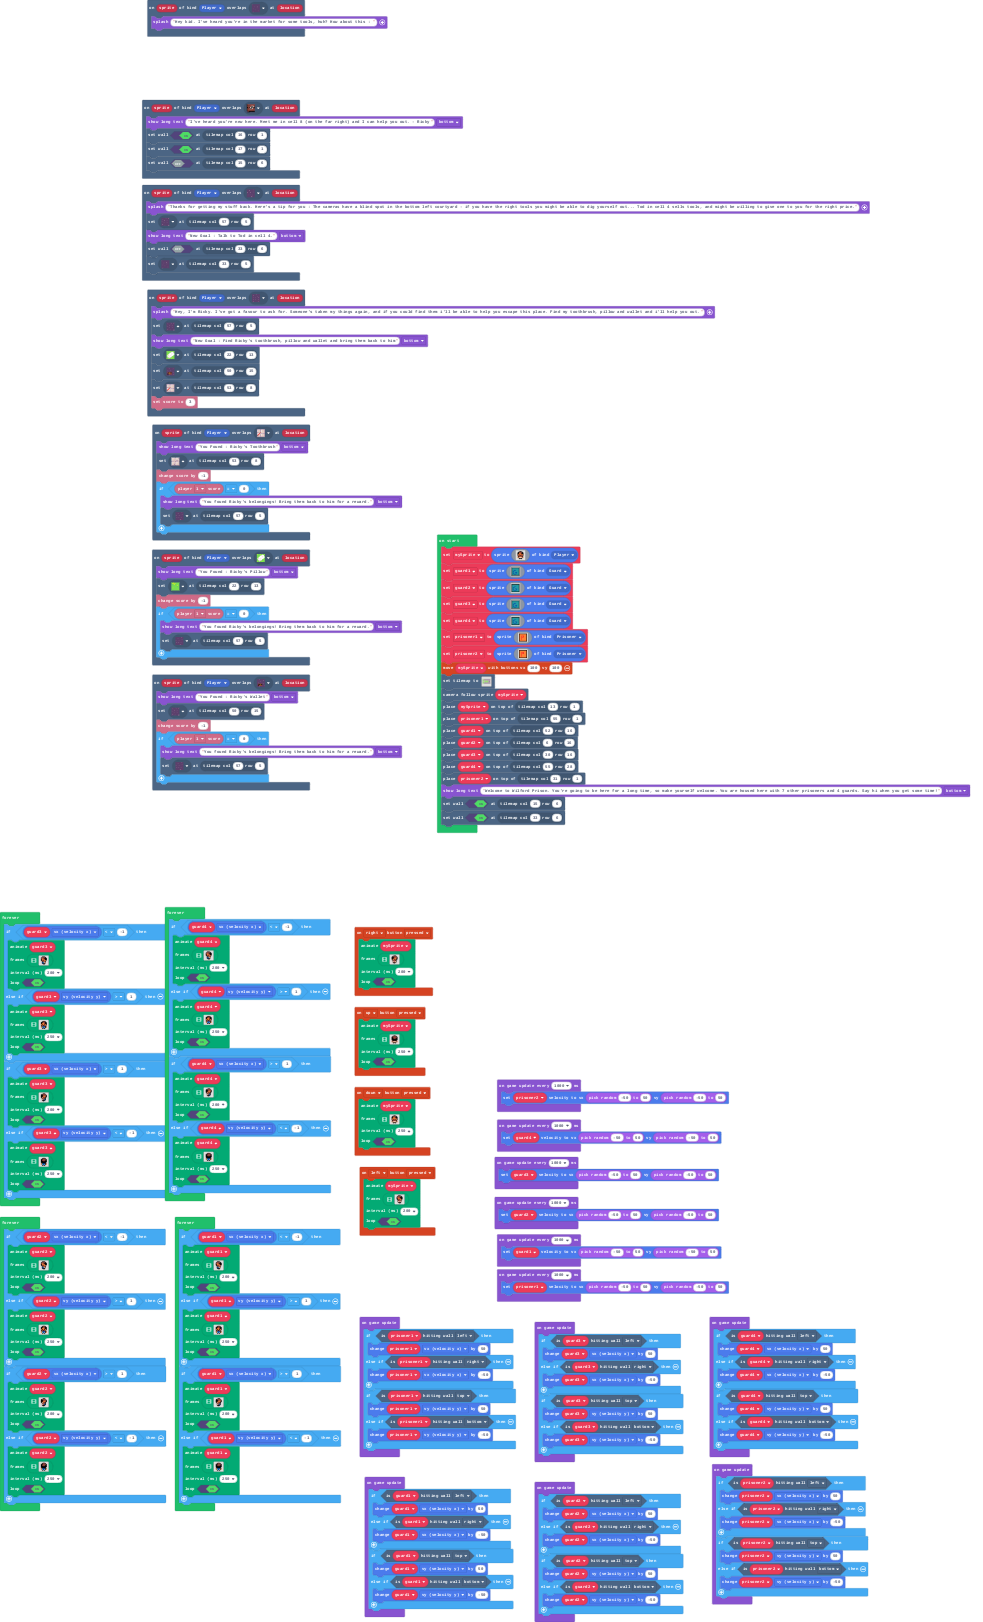
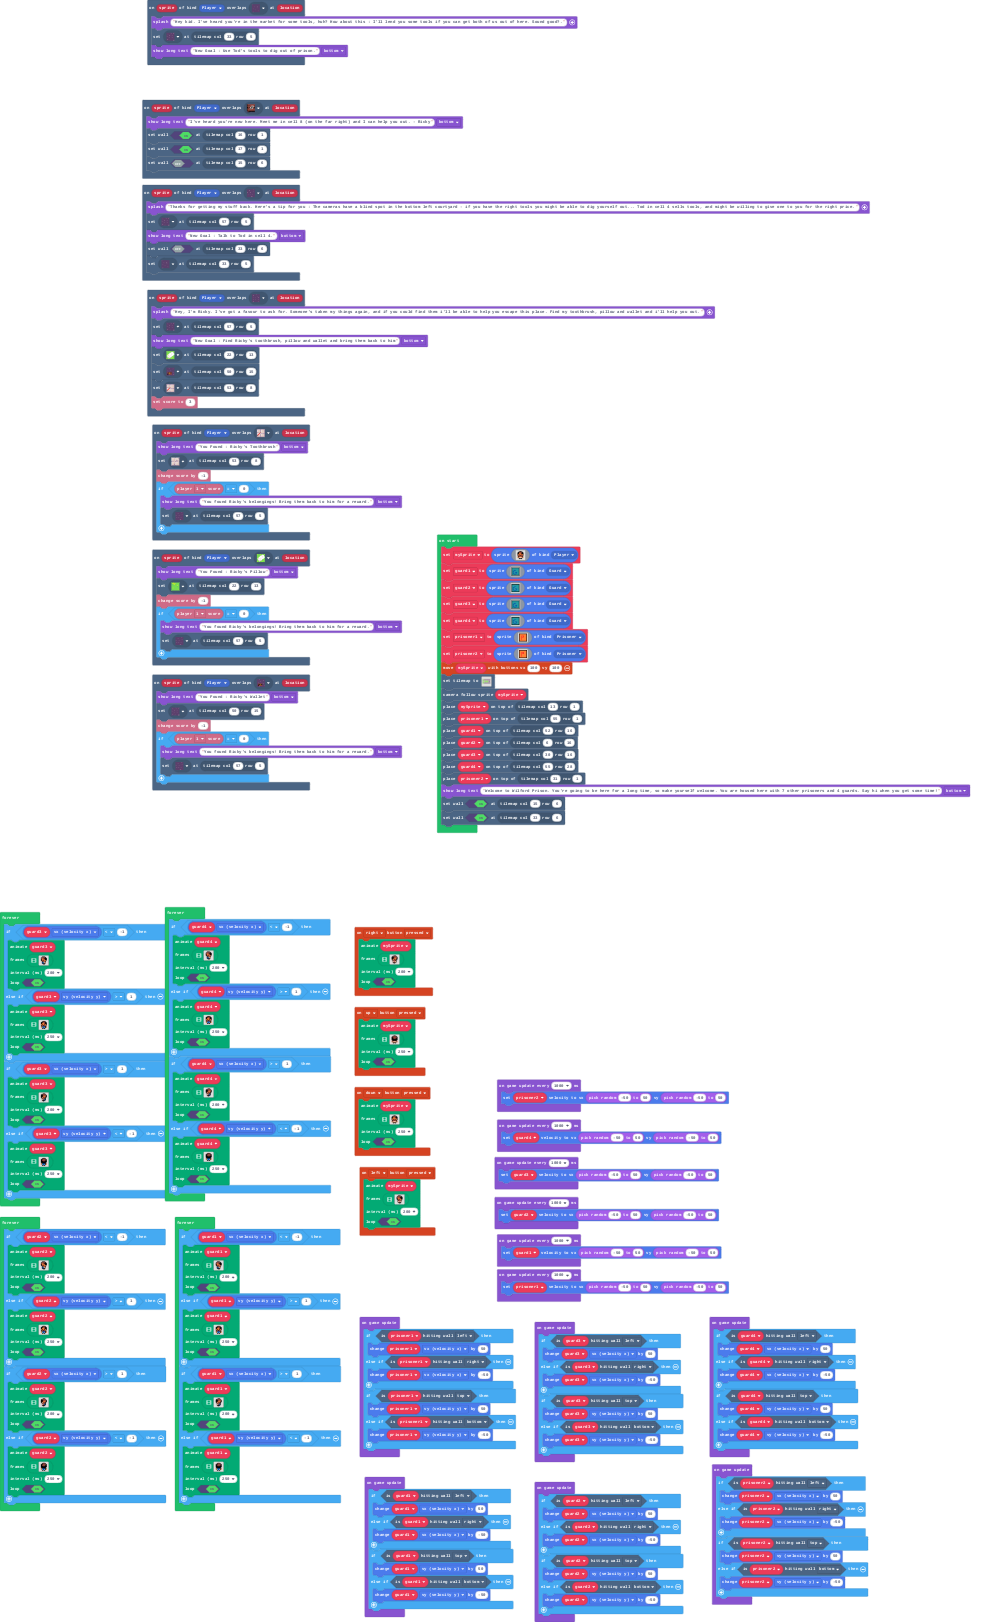
Story Updates

diff --git a/main.ts b/main.ts
@@ -279,7 +279,9 @@ scene.onOverlapTile(SpriteKind.Player, assets.tile`myTile31`, function (sprite, 
     }
 })
 scene.onOverlapTile(SpriteKind.Player, assets.tile`myTile35`, function (sprite, location) {
-    game.splash("Hey kid. I've heard you're in the market for some tools, huh? How about this : ")
+    game.splash("Hey kid. I've heard you're in the market for some tools, huh? How about this : I'll lend you some tools if you can get both of us out of here. Sound good?.")
+    tiles.setTileAt(tiles.getTileLocation(33, 5), sprites.dungeon.darkGroundNorthWest1)
+    game.showLongText("New Goal : Use Tod's tools to dig out of prison.", DialogLayout.Bottom)
 })
 scene.onOverlapTile(SpriteKind.Player, assets.tile`myTile30`, function (sprite, location) {
     game.splash("Hey, I'm Ricky. I've got a favour to ask for. Someone's taken my things again, and if you could find them i'll be able to help you escape this place. Find my toothbrush, pillow and wallet and i'll help you out.")
